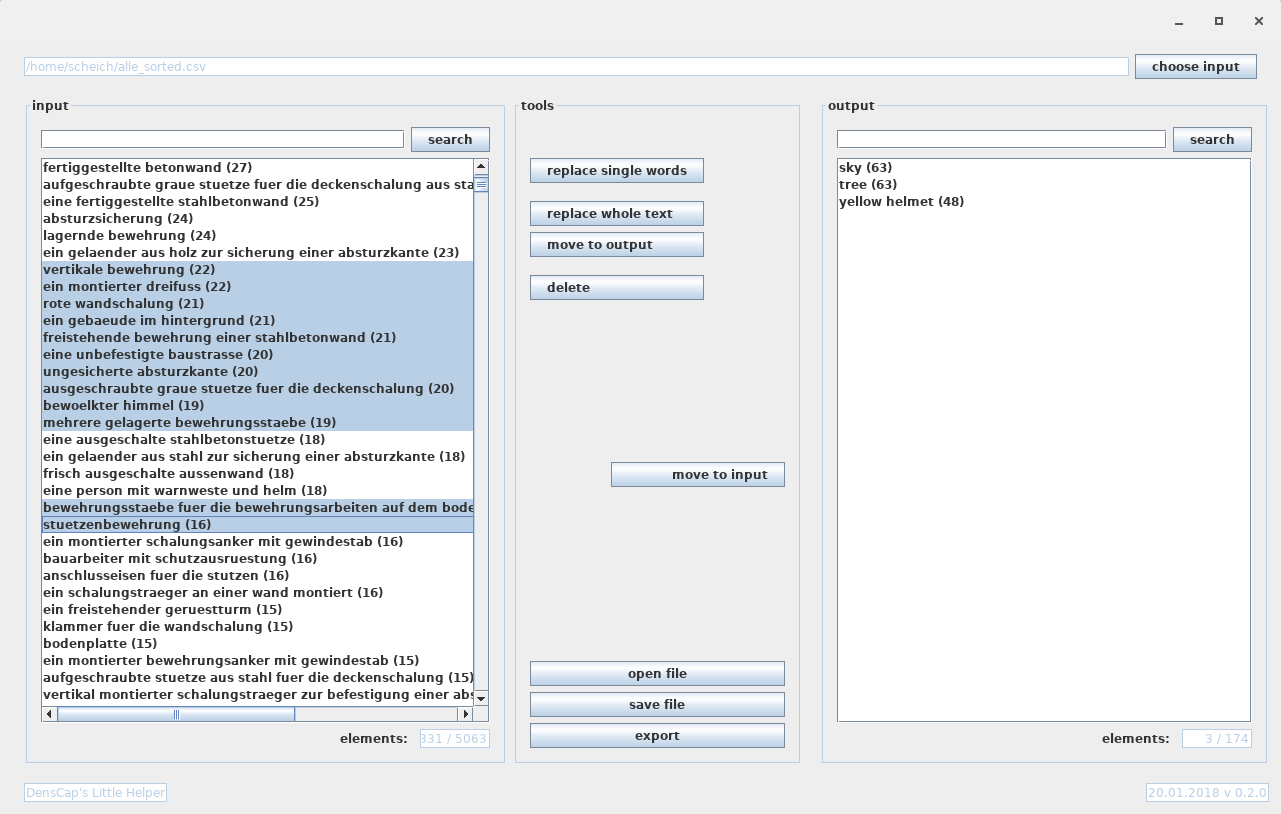
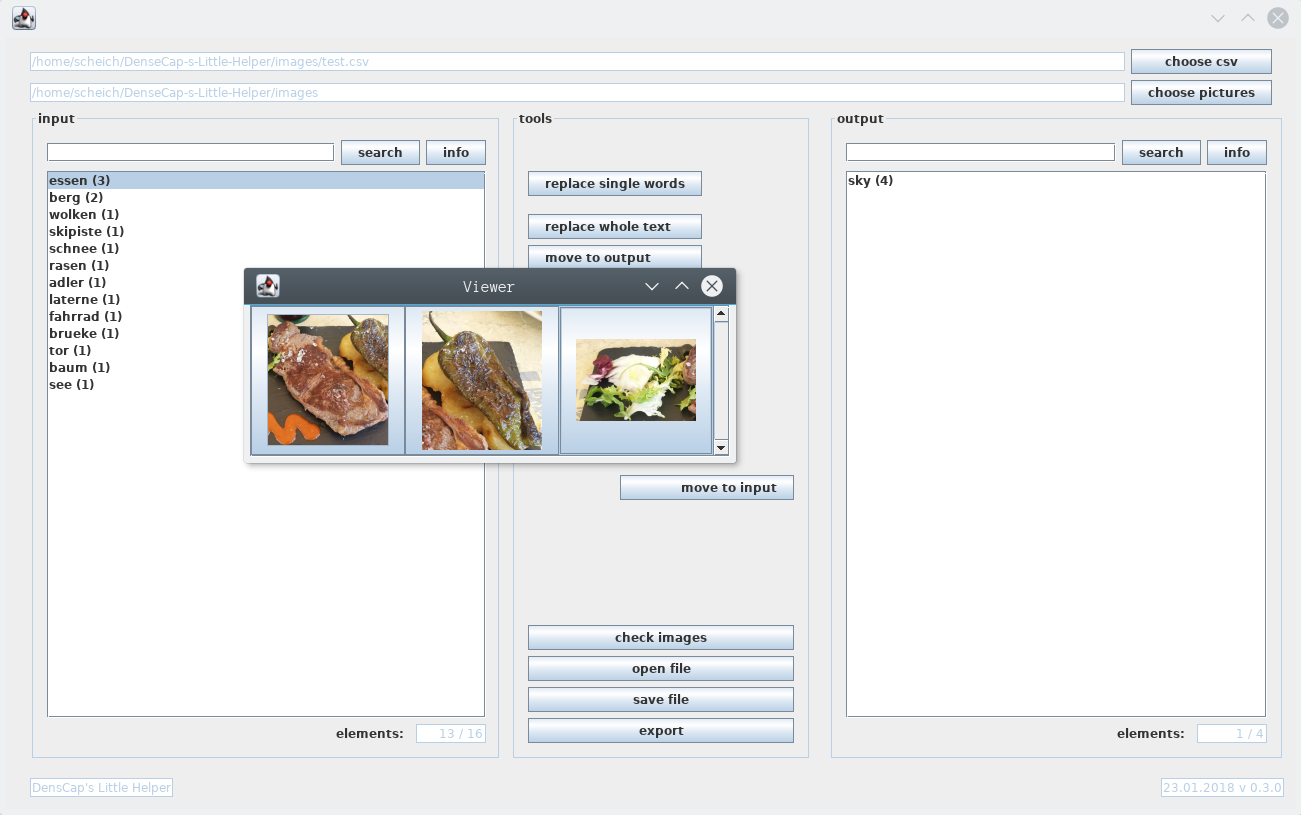
release viewer

diff --git a/src/densecapslittlehelper/Replace.java b/src/densecapslittlehelper/Replace.java
@@ -21,6 +21,7 @@ public class Replace extends javax.swing.JDialog {
     private List<Entry> list;
     private boolean words;
     private String find;
+    private boolean startsearch = false;
 
     /**
      *
@@ -41,6 +42,7 @@ public class Replace extends javax.swing.JDialog {
      * @param modal
      */
     public Replace(String find, boolean words, List<Entry> arr, java.awt.Frame parent, boolean modal) {
+        
         super(parent, modal);
         initComponents();
         this.list = arr;
@@ -52,6 +54,7 @@ public class Replace extends javax.swing.JDialog {
             Utils.getListtoStrings(GlobVars.outputList).forEach(e -> jComboBox1.addItem(e));
         }
         jComboBox1.setSelectedIndex(-1);
+        this.startsearch=true;
 
     }
 
@@ -101,6 +104,11 @@ public class Replace extends javax.swing.JDialog {
         });
 
         jComboBox1.setEditable(true);
+        jComboBox1.addItemListener(new java.awt.event.ItemListener() {
+            public void itemStateChanged(java.awt.event.ItemEvent evt) {
+                jComboBox1ItemStateChanged(evt);
+            }
+        });
 
         javax.swing.GroupLayout jPanel1Layout = new javax.swing.GroupLayout(jPanel1);
         jPanel1.setLayout(jPanel1Layout);
@@ -164,10 +172,29 @@ public class Replace extends javax.swing.JDialog {
     }//GEN-LAST:event_jButton2ActionPerformed
 
     private void jTextField1KeyPressed(java.awt.event.KeyEvent evt) {//GEN-FIRST:event_jTextField1KeyPressed
-        if (evt.getKeyCode() == KeyEvent.VK_ENTER) {
-            ok();
-        }
+//        if (evt.getKeyCode() == KeyEvent.VK_ENTER) {
+//            ok();
+//        }
     }//GEN-LAST:event_jTextField1KeyPressed
+
+    private void jComboBox1ItemStateChanged(java.awt.event.ItemEvent evt) {//GEN-FIRST:event_jComboBox1ItemStateChanged
+        
+//        if (startsearch ) {
+//            String text = jComboBox1.getSelectedItem().toString();
+//            jComboBox1.removeAllItems();
+//            for(Entry e  : GlobVars.inputList){
+//                if (e.getText1().contains(jComboBox1.toString())) {
+//                    jComboBox1.addItem(e.getText1());
+//                }
+//            }
+////            Utils.getListtoStrings(GlobVars.outputList)
+////            .forEach(e -> {
+////                if (e.contains(jComboBox1.toString())) {
+////                    jComboBox1.addItem(e);
+////                }
+////            });
+//        }
+    }//GEN-LAST:event_jComboBox1ItemStateChanged
 
     /**
      * @param args the command line arguments

diff --git a/src/densecapslittlehelper/MainView.java b/src/densecapslittlehelper/MainView.java
@@ -135,7 +135,7 @@ public class MainView extends javax.swing.JFrame {
         jTextField1.setText("DensCap's Little Helper");
         jTextField1.setEnabled(false);
 
-        jTextField2.setText("21.01.2018 v 0.2.1");
+        jTextField2.setText("23.01.2018 v 0.3.0");
         jTextField2.setEnabled(false);
 
         javax.swing.GroupLayout footerLayout = new javax.swing.GroupLayout(footer);
